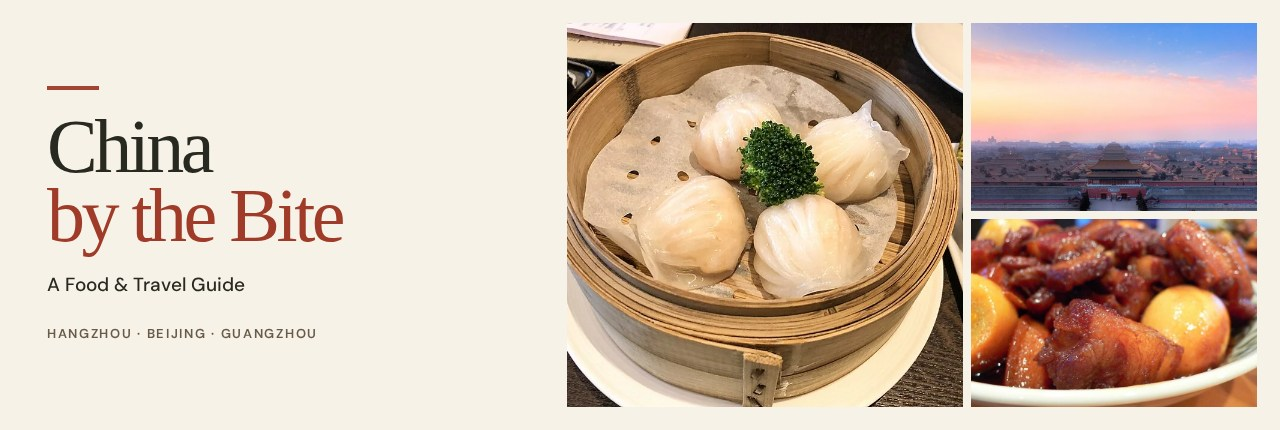
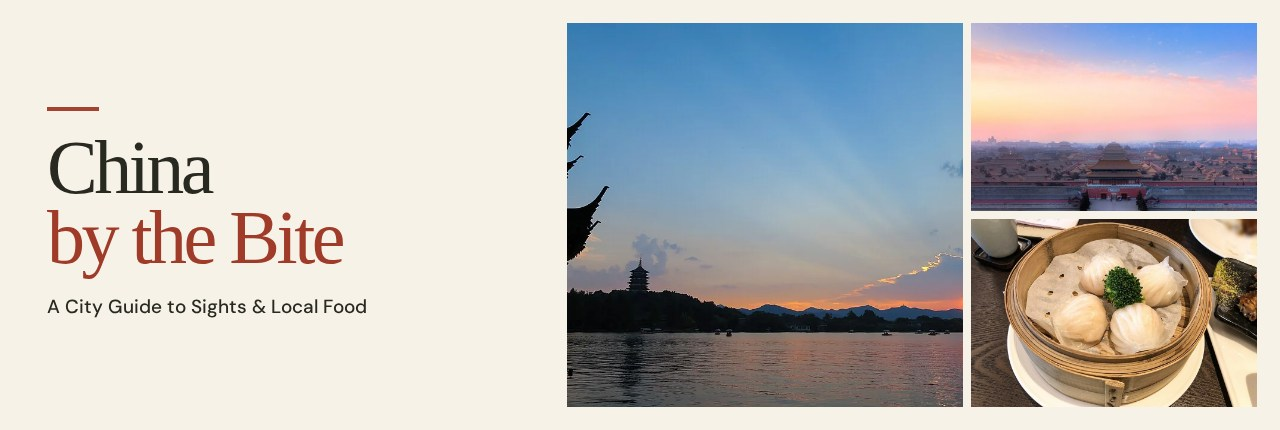
Introduce the guide through sightseeing, food and walks

diff --git a/README.md b/README.md
@@ -1,39 +1,11 @@
 <p align="center">
-  <img src="media/cover.jpg" alt="China by the Bite — a food and travel guide to Hangzhou, Beijing and Guangzhou" width="100%">
+  <img src="media/cover.jpg" alt="China by the Bite, a visual guide to city sights and local food" width="100%">
 </p>
 
-# China by the Bite — A Food & Travel Guide
+# China by the Bite — A City Guide to Sights & Local Food
 
-Find local dishes, historic sights and half-day walks in **Hangzhou, Beijing and Guangzhou**.
+Explore China’s cities through photos of lakeside paths, historic landmarks and neighborhood dishes. Tap a sight to discover its story, find a shop that serves a dish you want to try, or follow a half-day walking route.
 
-| City | At the table | On foot |
-| --- | --- | --- |
-| [Hangzhou](https://emmaok1.github.io/china-by-the-bite/#hangzhou/eat) | Dragon Well tea prawns, Dongpo pork and lotus blossom pastries | Follow the shore of West Lake |
-| [Beijing](https://emmaok1.github.io/china-by-the-bite/#beijing/eat) | Peking duck, copper-pot lamb and candied hawthorn | See the palace rooftops from Jingshan |
-| [Guangzhou](https://emmaok1.github.io/china-by-the-bite/#guangzhou/eat) | White-cut chicken, har gow and silky rice noodle rolls | Walk from the lanes of Xiguan to Shamian Island |
+<img src="media/mobile-preview.jpg" alt="The mobile guide showing local dishes, a pastry with its recommended shop, and a gallery of city sights" width="100%">
 
-## Inside the guide
-
-<img src="media/mobile-preview.jpg" alt="Three screens from the guide showing Hangzhou dishes, a lotus pastry with its recommended shop, and sights in Beijing" width="100%">
-
-**Food** covers 31 dishes and snacks. Tap a photo for its Chinese name, a short food story, a specific restaurant and an AMap link. Hangzhou follows the published order of the city's 2026 must-eat lists. Beijing and Guangzhou are editorial selections for a first visit.
-
-**Sights** pairs nine landmarks with local history and something to look for when you arrive. **Routes** offers one half-day walk per city. **Saved** keeps your bookmarks in the browser on the device you use.
-
-## Run it locally
-
-From the repository root, run this command and open [the local guide](http://localhost:8000/).
-
-```sh
-python3 -m http.server 8000 --directory docs
-```
-
-## Publish with GitHub Pages
-
-In **Settings → Pages → Build and deployment**, select **Deploy from a branch**, choose **main** and **/docs**, then save. GitHub serves the contents of that folder directly. The city links above open the corresponding sections once the site is published. [GitHub Pages documentation](https://docs.github.com/en/pages/getting-started-with-github-pages/configuring-a-publishing-source-for-your-github-pages-site)
-
-## Sources and photography
-
-Each food or sight card links to its sources. To update the guide, edit [food.js](docs/food.js) for dishes and restaurants or [guide.js](docs/guide.js) for landmarks and walks.
-
-The cover and preview use photographs cropped for this layout. The cover features har gow, the Forbidden City and Dongpo pork. Photo credits in the app and the [image attribution file](docs/credits.json) identify the original photographers, source pages and licenses for individual images. [DM Sans](docs/assets/DM-Sans-license.txt) and [DM Serif Text](docs/assets/DM-Serif-Text-license.txt) are bundled with the site.
+[Photo credits](docs/credits.json)
